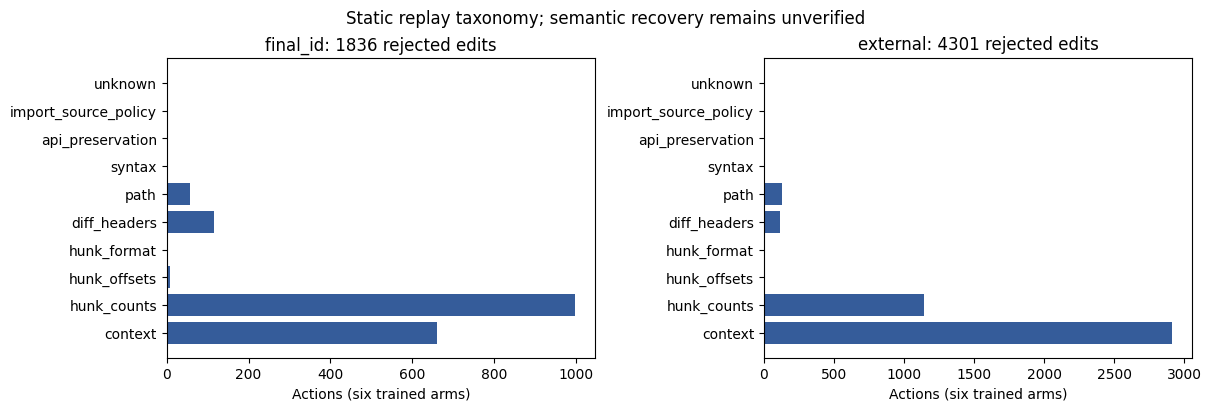
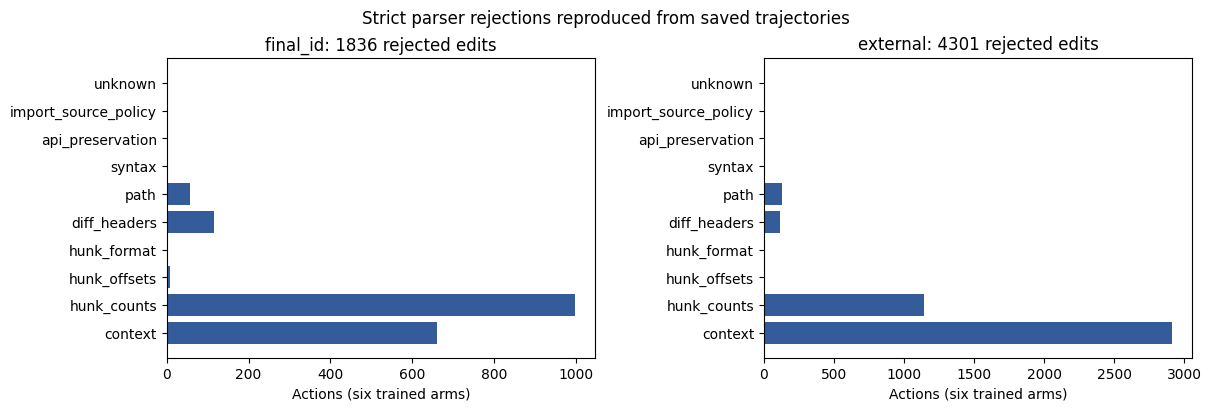
Quantify retrospective length and structure associations

Changed region(s): [[0.275, 0.0292, 0.7333, 0.0584]]

diff --git a/scripts/analyze_task17_strata.py b/scripts/analyze_task17_strata.py
@@ -1,0 +1,119 @@
+"""Descriptive strata of the immutable Task 17 retrospective audit; no execution."""
+
+import argparse
+import csv
+import json
+from collections import Counter
+from pathlib import Path
+
+import numpy as np
+
+from selfplay_opsd.analysis import write_csv
+from selfplay_opsd.storage import atomic_json, file_hash
+
+
+def summarize(rows):
+    edits = [r for r in rows if r["action"] == "apply_patch"]
+    rejected = [r for r in edits if r["parse_status"] == "tool_error"]
+    return dict(
+        actions=len(rows),
+        edit_attempts=len(edits),
+        accepted_edits=sum(r["category"] == "accepted_edit" for r in edits),
+        rejected_edits=len(rejected),
+        invalid_json_schema=sum(r["category"] == "json_schema" for r in rows),
+        recovered=sum(r["admitted"] == "True" for r in rejected),
+        categories=dict(Counter(r["category"] for r in rejected)),
+        episodes=len({r["episode_id"] for r in rows}),
+        parents=len({r["parent_id"] for r in rows}),
+    )
+
+
+def main():
+    parser = argparse.ArgumentParser(description=__doc__)
+    parser.add_argument("--audit", type=Path, required=True)
+    parser.add_argument("--output", type=Path, required=True)
+    args = parser.parse_args()
+    if args.output.exists():
+        raise ValueError("Preserve prior analysis output")
+    path = args.audit / "actions.csv"
+    with path.open() as f:
+        rows = [r for r in csv.DictReader(f) if r["method"] != "base"]
+    for row in rows:
+        row["mutation_site_count"] = len(json.loads(row["mutation_sites"]))
+    results = []
+    for split in ("final_id", "external"):
+        selected = [r for r in rows if r["split"] == split]
+        task_features = {r["task_id"]: r for r in selected}
+        for feature in (
+            "source_tokens",
+            "spec_tokens",
+            "branches",
+            "public_cases",
+            "mutation_site_count",
+        ):
+            cut = float(np.median([float(r[feature]) for r in task_features.values()]))
+            for high in (False, True):
+                group = [r for r in selected if (float(r[feature]) > cut) == high]
+                if group:
+                    results.append(
+                        dict(
+                            split=split,
+                            feature=feature,
+                            stratum="above_median" if high else "at_or_below_median",
+                            threshold=cut,
+                            **summarize(group),
+                        )
+                    )
+        for feature in ("mutation_type", "checkpoint", "method", "turn"):
+            for value in sorted({r[feature] for r in selected}):
+                group = [r for r in selected if r[feature] == value]
+                results.append(
+                    dict(
+                        split=split,
+                        feature=feature,
+                        stratum=value,
+                        threshold=None,
+                        **summarize(group),
+                    )
+                )
+        for method in ("A", "B"):
+            for seed in ("2026", "2027", "2028"):
+                group = [r for r in selected if r["method"] == method and r["seed"] == seed]
+                results.append(
+                    dict(
+                        split=split,
+                        feature="snapshot",
+                        stratum=f"{method}-{seed}",
+                        threshold=None,
+                        **summarize(group),
+                    )
+                )
+    atomic_json(
+        args.output / "summary.json",
+        {
+            "strata": results,
+            "interpretation": "Descriptive action-level associations with overlapping/confounded task features; not causal effects or independent action trials",
+        },
+    )
+    write_csv(
+        args.output / "strata.csv",
+        [{k: v for k, v in r.items() if k != "categories"} for r in results],
+    )
+    atomic_json(
+        args.output / "input-manifest.json", {str(p): file_hash(p) for p in (path, Path(__file__))}
+    )
+    for split in ("final_id", "external"):
+        print(
+            json.dumps(
+                [
+                    r
+                    for r in results
+                    if r["split"] == split
+                    and r["feature"] in ("source_tokens", "spec_tokens", "branches")
+                ]
+            )
+        )
+
+
+if __name__ == "__main__":
+    main()

diff --git a/scripts/analyze_task17.py b/scripts/analyze_task17.py
@@ -197,7 +197,7 @@ def main():
         counts = Counter(r["category"] for r in rs)
         ax.barh(categories, [counts[c] for c in categories], color="#355C9A")
         ax.set(title=f"{split}: {len(rs)} rejected edits", xlabel="Actions (six trained arms)")
-    fig.suptitle("Static replay taxonomy; semantic recovery remains unverified")
+    fig.suptitle("Strict parser rejections reproduced from saved trajectories")
     for suffix in ("png", "pdf"):
         fig.savefig(destination / f"rejection-taxonomy.{suffix}", bbox_inches="tight")
     plt.close(fig)

diff --git a/docs/investigations/task17-repair-interface-results.md b/docs/investigations/task17-repair-interface-results.md
@@ -46,6 +46,18 @@ independent tasks. No oracle solution is used to choose or reconstruct an edit.
 | File headers | 115 | 116 |
 | Forbidden paths / extra file content | 56 | 131 |
 
+Action acceptance falls with source length within MBPP+: 396/694 edits (57.1%)
+for tasks at/below 35 source tokens versus 217/1,755 (12.4%) above that median.
+HumanEval+ is near its floor in both strata: 13/2,230 versus 0/2,084 at a
+173-token median. All 13 accepted external patches also lie below the median
+specification length (115.5 tokens). These are confounded action-level
+associations, not causal length effects. MBPP+ tasks with at most one branch
+accept 488/1,181 edits versus 125/1,268 with more branches. The reproducible
+private stratified table also covers mutation type/sites, public-case count,
+preceding turn, method and each checkpoint/seed; source and specification
+features overlap. Reproduce with `scripts/analyze_task17_strata.py` against
+`runs/task17/recovery-full-v1/`, using a new output directory.
+
 The static parser reproduces errors even where historical final-turn tool
 observations were absent. Categories describe the first rejection and can mask
 later defects. Another 50 ID and 215 external actions fail JSON/schema parsing.
